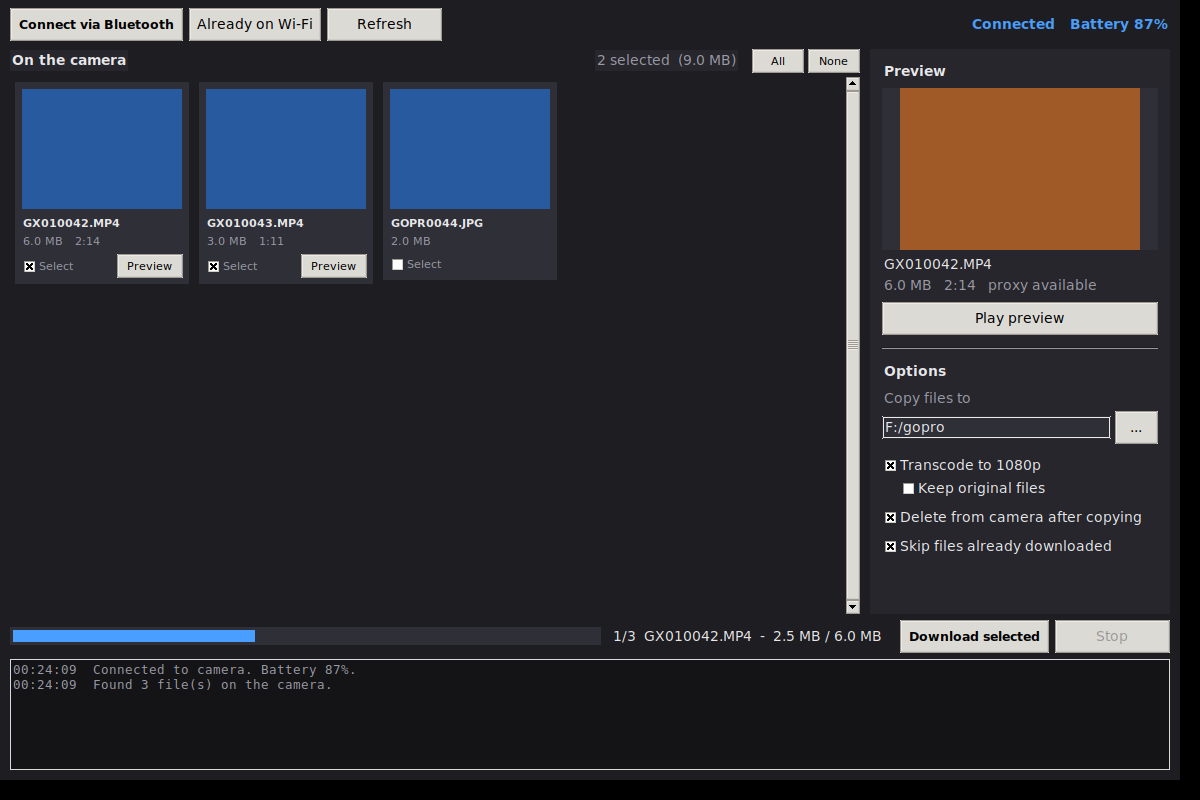
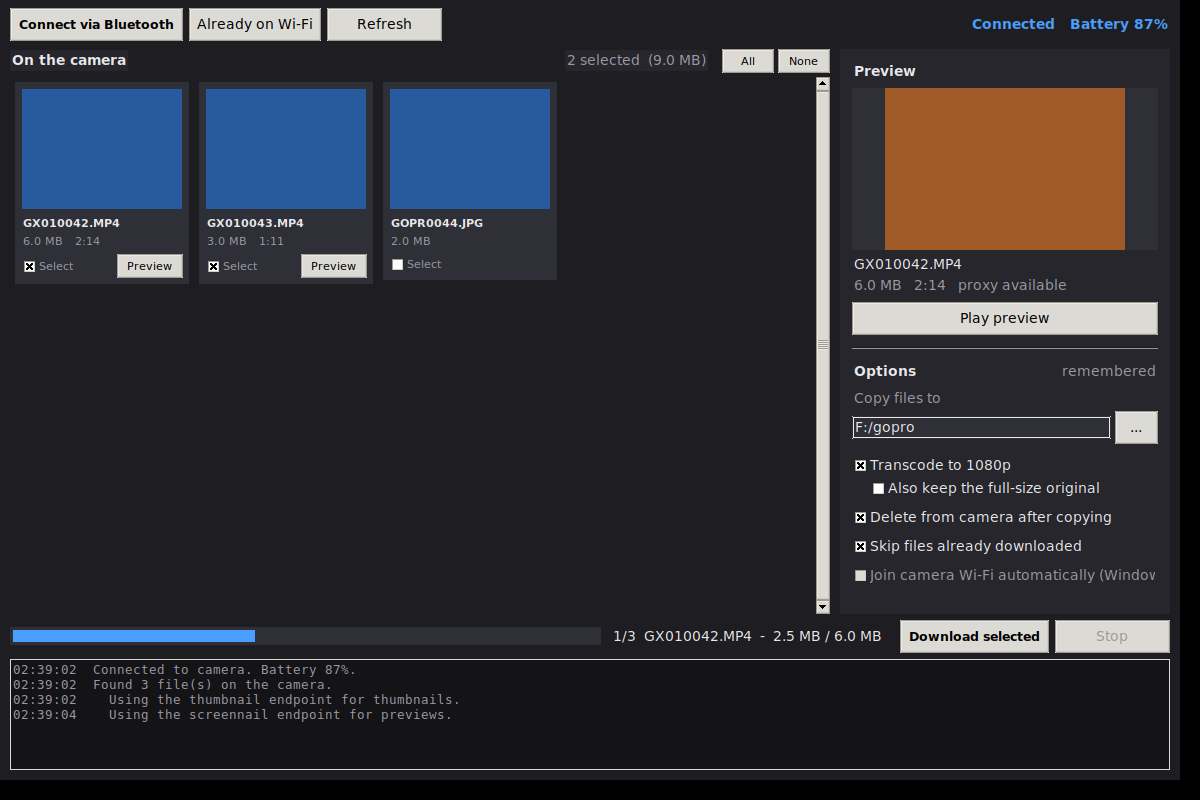
Remember the window's options between runs
The transcode, delete-from-camera and keep-originals toggles already existed
but reset to their defaults every launch, so any choice other than the default
had to be re-made each time.

gopro_settings.py stores them as JSON under the user's config directory
(%APPDATA%\GoProUnloader on Windows), covering the destination folder, all
four transfer toggles and the new Wi-Fi preference. Saves happen as soon as a
control changes rather than only on exit, so a crash or a force-quit doesn't
lose them. Reads never raise: a missing, corrupt, or hand-edited file falls
back to defaults, and individual values of the wrong type are discarded rather
than being loaded into the UI. Saving merges over what is already stored, so
writing a subset can't drop the other keys.

Automatic Wi-Fi joining becomes a remembered checkbox instead of a button to
press on every connect. When it is set, the Bluetooth step hands the
credentials straight to netsh; the button stays for one-off use. The
preference is read on the main thread before the worker starts, since Tk
variables cannot be touched from another thread.

Relabels "Keep original files" to "Also keep the full-size original", which is
what it does, and notes in the sidebar that the choices are remembered.

Claude-Session: https://claude.ai/code/session_01SMkCcbjHPsTKFNWFuk1Wqi

diff --git a/gopro_gui.py b/gopro_gui.py
@@ -28,6 +28,7 @@ from pathlib import Path
 from tkinter import filedialog, messagebox, ttk
 
 import gopro_core as core
+import gopro_settings
 
 try:
     from PIL import Image, ImageTk
@@ -178,12 +179,15 @@ class GoProApp:
         self.password: str | None = None
         self.detail_photo = None
         self._conn_label = "Connected"
+        self._auto_join_enabled = False
 
-        self.output_dir   = tk.StringVar(value=str(DEFAULT_OUTPUT))
-        self.opt_transcode = tk.BooleanVar(value=True)
-        self.opt_delete    = tk.BooleanVar(value=True)
-        self.opt_keep_raw  = tk.BooleanVar(value=False)
-        self.opt_skip_existing = tk.BooleanVar(value=True)
+        saved = gopro_settings.load()
+        self.output_dir        = tk.StringVar(value=saved["output_dir"])
+        self.opt_transcode     = tk.BooleanVar(value=saved["transcode"])
+        self.opt_delete        = tk.BooleanVar(value=saved["delete_from_cam"])
+        self.opt_keep_raw      = tk.BooleanVar(value=saved["keep_originals"])
+        self.opt_skip_existing = tk.BooleanVar(value=saved["skip_existing"])
+        self.opt_auto_join     = tk.BooleanVar(value=saved["auto_join_wifi"])
         self.status_text  = tk.StringVar(value="Not connected")
         self.progress_text = tk.StringVar(value="")
         self.selection_text = tk.StringVar(value="Nothing selected")
@@ -191,6 +195,7 @@ class GoProApp:
         self._build_styles()
         self._build_layout()
         self._install_log_handler()
+        self._watch_settings()
 
         root.protocol("WM_DELETE_WINDOW", self.on_close)
         root.after(50, self._pump)
@@ -325,7 +330,7 @@ class GoProApp:
         self.empty_label.grid(row=0, column=0, padx=20, pady=20)
 
     def _build_sidebar(self, parent) -> None:
-        side = ttk.Frame(parent, style="Panel.TFrame", padding=12, width=300)
+        side = ttk.Frame(parent, style="Panel.TFrame", padding=12, width=330)
         side.pack(side="right", fill="y", padx=(10, 0))
         side.pack_propagate(False)
 
@@ -348,7 +353,10 @@ class GoProApp:
 
         ttk.Separator(side, orient="horizontal").pack(fill="x", pady=12)
 
-        ttk.Label(side, text="Options", style="Heading.TLabel").pack(anchor="w")
+        opt_head = ttk.Frame(side, style="Panel.TFrame")
+        opt_head.pack(fill="x")
+        ttk.Label(opt_head, text="Options", style="Heading.TLabel").pack(side="left")
+        ttk.Label(opt_head, text="remembered", style="Dim.TLabel").pack(side="right")
         ttk.Label(side, text="Copy files to", style="Dim.TLabel").pack(
             anchor="w", pady=(6, 2)
         )
@@ -364,13 +372,24 @@ class GoProApp:
         ttk.Checkbutton(side, text="Transcode to 1080p", variable=self.opt_transcode,
                         command=self._sync_option_states).pack(anchor="w", pady=(10, 0))
         self.chk_keep = ttk.Checkbutton(
-            side, text="Keep original files", variable=self.opt_keep_raw,
+            side, text="Also keep the full-size original",
+            variable=self.opt_keep_raw,
         )
         self.chk_keep.pack(anchor="w", padx=(18, 0))
         ttk.Checkbutton(side, text="Delete from camera after copying",
                         variable=self.opt_delete).pack(anchor="w", pady=(6, 0))
         ttk.Checkbutton(side, text="Skip files already downloaded",
                         variable=self.opt_skip_existing).pack(anchor="w", pady=(6, 0))
+
+        label = "Join camera Wi-Fi automatically"
+        if sys.platform != "win32":
+            label += " (Windows)"
+        self.chk_auto_join = ttk.Checkbutton(
+            side, text=label, variable=self.opt_auto_join,
+        )
+        self.chk_auto_join.pack(anchor="w", pady=(6, 0))
+        if sys.platform != "win32":
+            self.chk_auto_join.configure(state="disabled")
 
         self._sync_option_states()
 
@@ -475,6 +494,10 @@ class GoProApp:
         self._cancel.clear()
         self._set_busy(True)
         self._set_status("Waking camera over Bluetooth...")
+        # Read the Tk variable here: the worker thread must not touch it.
+        self._auto_join_enabled = (
+            self.opt_auto_join.get() and sys.platform == "win32"
+        )
         self._run_worker(self._ble_worker)
 
     def _ble_worker(self) -> None:
@@ -496,6 +519,9 @@ class GoProApp:
         self.ssid, self.password = ssid, password
         self._post(self._show_wifi_banner, ssid, password)
         self._post(self._set_status, f"Waiting for Wi-Fi: {ssid}")
+        if self._auto_join_enabled:
+            log.info("Joining %s automatically...", ssid)
+            self._auto_join_worker(ssid, password)
         self._run_worker(self._wait_for_wifi_worker)
 
     def _wait_for_wifi_worker(self) -> None:
@@ -735,6 +761,27 @@ class GoProApp:
             state="normal" if self.opt_transcode.get() else "disabled"
         )
 
+    # -- persisted preferences --------------------------------------------
+
+    def _settings_values(self) -> dict:
+        return {
+            "output_dir"     : self.output_dir.get(),
+            "transcode"      : self.opt_transcode.get(),
+            "keep_originals" : self.opt_keep_raw.get(),
+            "delete_from_cam": self.opt_delete.get(),
+            "skip_existing"  : self.opt_skip_existing.get(),
+            "auto_join_wifi" : self.opt_auto_join.get(),
+        }
+
+    def _watch_settings(self) -> None:
+        """Save preferences whenever one of them changes."""
+        for var in (self.output_dir, self.opt_transcode, self.opt_delete,
+                    self.opt_keep_raw, self.opt_skip_existing, self.opt_auto_join):
+            var.trace_add("write", lambda *_: self.save_settings())
+
+    def save_settings(self) -> None:
+        gopro_settings.save(self._settings_values())
+
     def _snapshot_options(self) -> dict:
         """
         Read the option widgets into a plain dict on the main thread.
@@ -912,6 +959,7 @@ class GoProApp:
             "Still working", "A transfer is running. Quit anyway?"
         ):
             return
+        self.save_settings()
         self._cancel.set()
         for proc in self._preview_procs:
             if proc.poll() is None:

diff --git a/gopro_settings.py b/gopro_settings.py
@@ -1,0 +1,108 @@
+#!/usr/bin/env python3
+"""
+Persisted UI preferences
+-------------------------
+Remembers the choices made in the offload window between runs, in a small
+JSON file under the user's config directory:
+
+    Windows : %APPDATA%\\GoProUnloader\\settings.json
+    else    : ~/.config/gopro-unloader/settings.json
+
+Reads never raise: a missing, unreadable, or corrupt file falls back to
+defaults, because losing preferences should never stop the app from starting.
+"""
+
+import json
+import logging
+import os
+import sys
+from pathlib import Path
+
+log = logging.getLogger("gopro")
+
+APP_NAME = "GoProUnloader"
+
+DEFAULTS: dict = {
+    "output_dir"      : "F:/gopro",
+    "transcode"       : True,
+    "keep_originals"  : False,
+    "delete_from_cam" : True,
+    "skip_existing"   : True,
+    "auto_join_wifi"  : False,
+}
+
+
+def settings_dir() -> Path:
+    """Per-user config directory, following the platform convention."""
+    if sys.platform == "win32":
+        base = os.environ.get("APPDATA")
+        if base:
+            return Path(base) / APP_NAME
+        return Path.home() / "AppData" / "Roaming" / APP_NAME
+    base = os.environ.get("XDG_CONFIG_HOME")
+    root = Path(base) if base else Path.home() / ".config"
+    return root / "gopro-unloader"
+
+
+def settings_path() -> Path:
+    return settings_dir() / "settings.json"
+
+
+def load() -> dict:
+    """
+    Current preferences, defaults filled in for anything missing.
+
+    Values whose type doesn't match the default are discarded - an
+    edited-by-hand file shouldn't be able to put the UI in a broken state.
+    """
+    values = dict(DEFAULTS)
+    path = settings_path()
+    try:
+        if not path.exists():
+            return values
+        stored = json.loads(path.read_text(encoding="utf-8"))
+        if not isinstance(stored, dict):
+            log.warning("Ignoring %s: expected a JSON object.", path)
+            return values
+    except Exception as e:
+        log.warning("Could not read settings (%s); using defaults.", e)
+        return values
+
+    for key, default in DEFAULTS.items():
+        if key not in stored:
+            continue
+        value = stored[key]
+        if isinstance(default, bool):
+            if isinstance(value, bool):
+                values[key] = value
+        elif isinstance(value, type(default)):
+            values[key] = value
+    return values
+
+
+def save(values: dict) -> bool:
+    """
+    Write preferences out, keeping only recognised keys.
+
+    Merges over what is already stored, so saving a subset updates just those
+    keys instead of dropping the rest. Writes to a temporary file and replaces
+    the real one, so an interrupted write can't leave a half-written settings
+    file behind. Returns False (and warns) if it couldn't be saved - never
+    raises.
+    """
+    keep = load()
+    keep.update({k: values[k] for k in DEFAULTS if k in values})
+    path = settings_path()
+    tmp = path.with_suffix(".json.tmp")
+    try:
+        path.parent.mkdir(parents=True, exist_ok=True)
+        tmp.write_text(json.dumps(keep, indent=2) + "\n", encoding="utf-8")
+        tmp.replace(path)
+        return True
+    except Exception as e:
+        log.warning("Could not save settings to %s: %s", path, e)
+        try:
+            tmp.unlink(missing_ok=True)
+        except OSError:
+            pass
+        return False

diff --git a/README.md b/README.md
@@ -104,12 +104,22 @@ python gopro_gui.py
 
 **Options** (all in the sidebar, applied when you hit Download)
 - **Copy files to** — pick any destination folder.
-- **Transcode to 1080p** — on by default; **Keep original files** decides
-  whether the raw download survives the transcode.
+- **Transcode to 1080p** — turn it off to just copy the originals across.
+- **Also keep the full-size original** — with transcoding on, keeps the
+  untouched original in `raw/` alongside the 1080p copy in `transcoded/`.
+  Off means the original is removed once its 1080p copy is written.
 - **Delete from camera after copying** — asks for confirmation first, and only
   ever deletes files that downloaded successfully. Deleting a clip also removes
   its `.LRV`/`.THM` siblings, so the card actually frees up.
 - **Skip files already downloaded** — makes re-runs resume instead of refetch.
+- **Join camera Wi-Fi automatically** (Windows) — when the Bluetooth step has
+  read the credentials, switch the adapter over without waiting for a click.
+
+Every one of these, including the destination folder, is **remembered between
+runs**. They're stored as JSON in `%APPDATA%\GoProUnloader\settings.json`
+(`~/.config/gopro-unloader/settings.json` elsewhere); delete that file to go
+back to defaults. A damaged or hand-edited file falls back to defaults rather
+than failing to start.
 
 **During a transfer** a progress bar tracks the whole run file by file, **Stop**
 cancels cleanly (partial files are removed), and the log pane at the bottom
